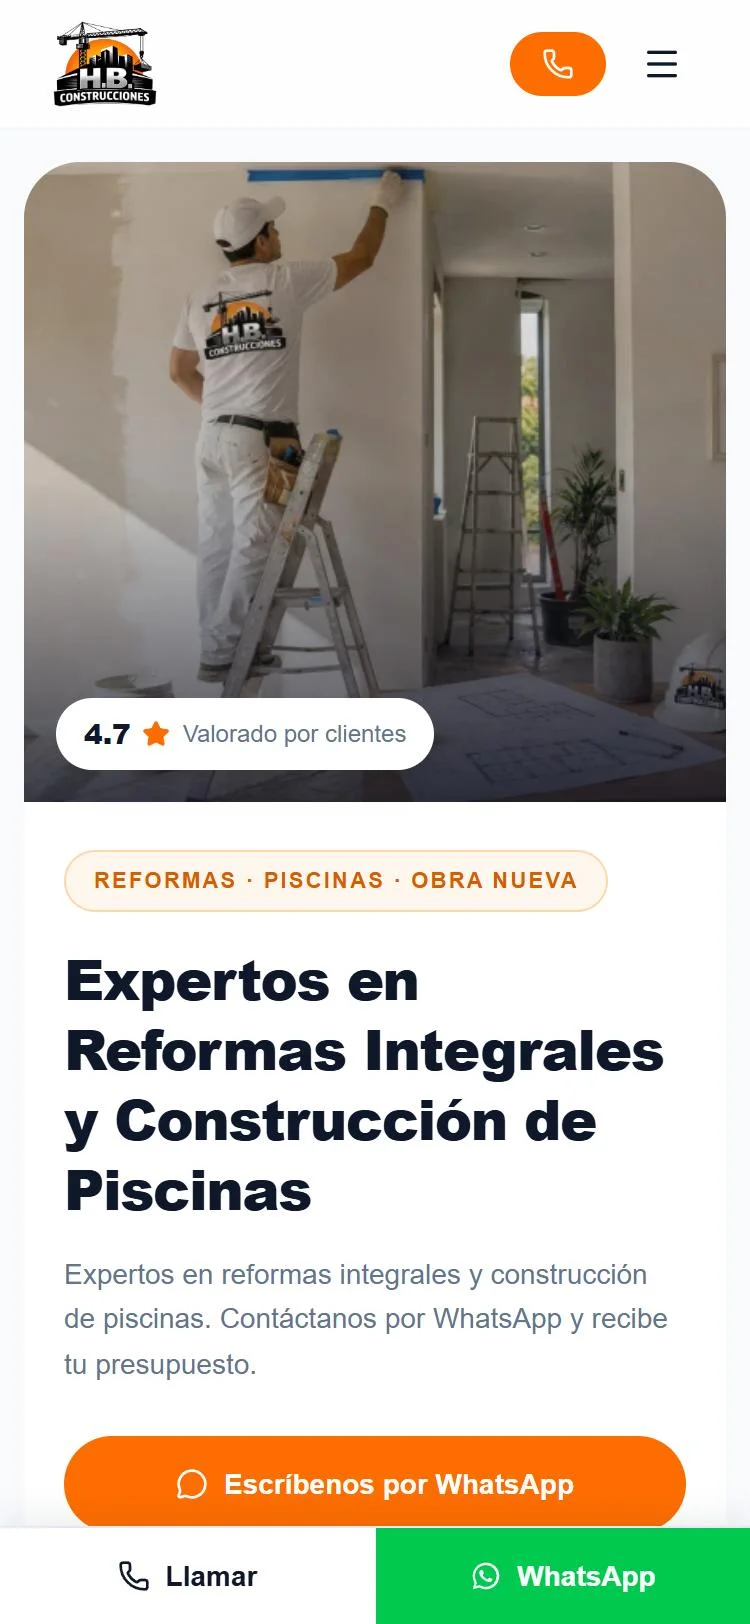
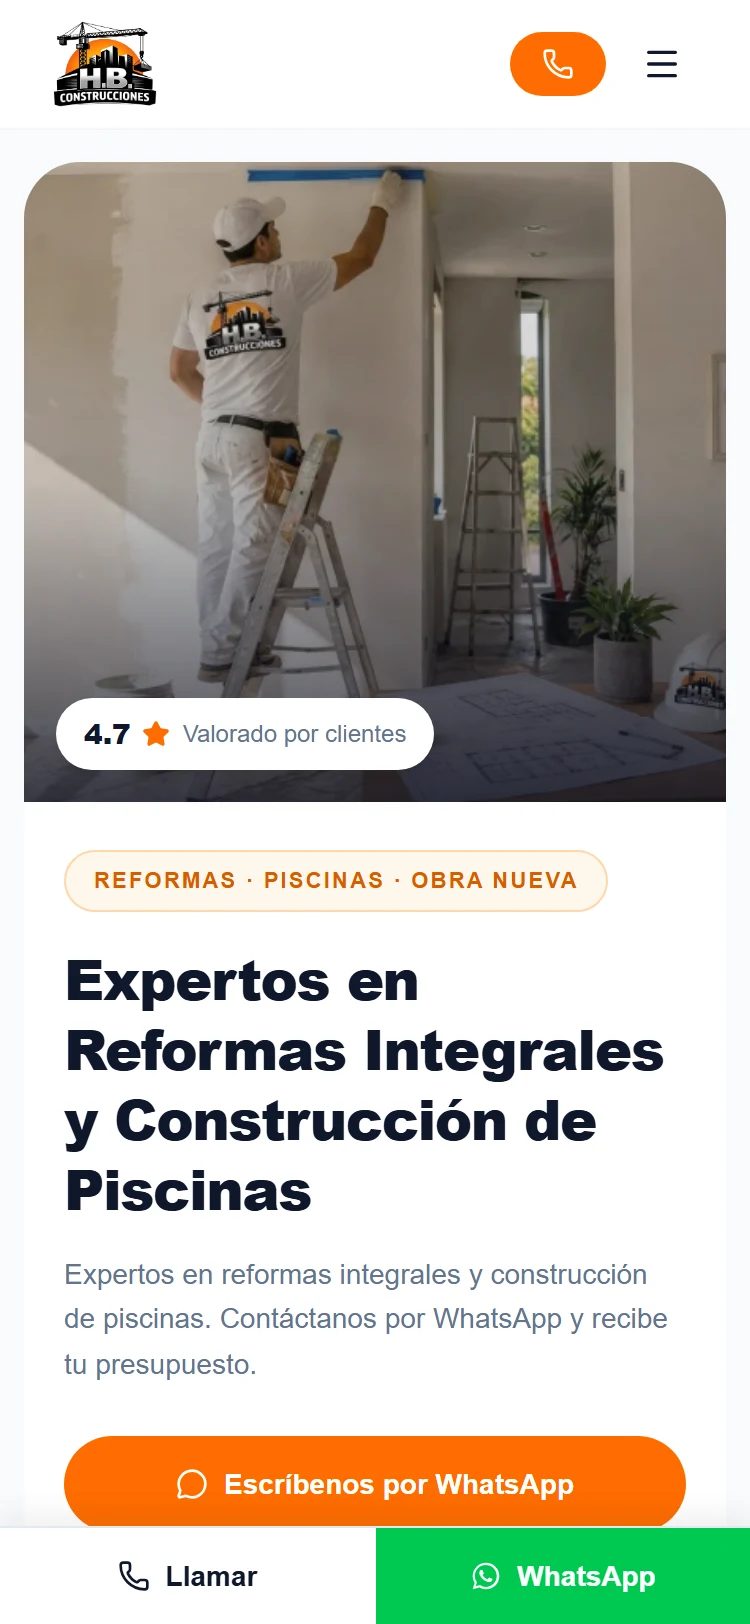
T35: capturas definitivas de HB, Zona F y Finanzas (#43)
* T35: script de capturas y capturas definitivas de HB y Finanzas

pnpm screenshots captura las webs publicadas a 2x sin barra de desplazamiento. Sustituye las
provisionales de HB (portada, móvil, trabajos) y Finanzas (demo). Zona F pendiente: su web
publicada falla (React #441, «Algo salió mal»).

* T35: capturas definitivas de Zona F (solo interfaz)

---------

diff --git a/scripts/capture-screenshots.ts b/scripts/capture-screenshots.ts
@@ -1,0 +1,145 @@
+import { chromium, type Browser, type Page } from '@playwright/test';
+import { mkdirSync } from 'node:fs';
+import { fileURLToPath } from 'node:url';
+import sharp from 'sharp';
+
+/**
+ * Capturas definitivas de los proyectos (spec §9.5, T35): `pnpm screenshots [nombre…]`.
+ * Abre las webs publicadas a 2x, sin barra de desplazamiento, y guarda cada captura en WebP en
+ * `src/content/work/<slug>/images/`. Sin argumentos hace todas. Terry revisa cada una antes de subirla.
+ *
+ * Zona F: solo la interfaz (partidos en vivo, cuotas y boleto). Nunca el hero ni las promociones
+ * con jugadores, escudos o patrocinadores. Finanzas: modo demo, con datos de ejemplo.
+ */
+const root = new URL('../src/content/work/', import.meta.url);
+
+const desktop = { width: 1440, height: 900 } as const;
+const phone = { width: 375, height: 812 } as const;
+
+type Shot = {
+  name: string;
+  slug: string;
+  url: string;
+  viewport: { width: number; height: number };
+  /** Deja la página lista para la captura (cookies, demo, desplazamiento…). */
+  prepare?: (page: Page) => Promise<void>;
+};
+
+const settle = (page: Page) => page.waitForTimeout(1500);
+
+/** Zona F: salta el hero y las promociones (jugadores, escudos) hasta «En vivo ahora». */
+async function scrollLiveMatchesIntoView(page: Page, offset: number) {
+  await page.getByRole('heading', { name: 'En vivo ahora' }).first().waitFor();
+  await page.evaluate((offset) => {
+    const heading = [...document.querySelectorAll('h3')].find((h) =>
+      /en vivo ahora/i.test(h.textContent ?? ''),
+    );
+    window.scrollBy(0, (heading?.getBoundingClientRect().top ?? 0) - offset);
+  }, offset);
+}
+
+const shots: Shot[] = [
+  {
+    name: 'hb-portada-escritorio',
+    slug: 'hb-construcciones',
+    url: 'https://hb-construcciones.vercel.app/',
+    viewport: desktop,
+  },
+  {
+    name: 'hb-movil',
+    slug: 'hb-construcciones',
+    url: 'https://hb-construcciones.vercel.app/',
+    viewport: phone,
+  },
+  {
+    name: 'hb-trabajos-escritorio',
+    slug: 'hb-construcciones',
+    url: 'https://hb-construcciones.vercel.app/',
+    viewport: desktop,
+    prepare: async (page) => {
+      const gallery = page.locator('#galeria');
+      await gallery.scrollIntoViewIfNeeded();
+      // La cabecera de la galería arriba del todo, con un margen.
+      await page.evaluate(() => {
+        const top = document.querySelector('#galeria h2')?.getBoundingClientRect().top ?? 0;
+        window.scrollBy(0, top - 112);
+      });
+    },
+  },
+  {
+    name: 'zonaf-escritorio',
+    slug: 'zona-f',
+    url: 'https://zona-f.vercel.app/',
+    viewport: desktop,
+    prepare: async (page) => {
+      await scrollLiveMatchesIntoView(page, 90);
+      // Una selección en el boleto: el primer «Local» de la tarjeta de Alianza Lima.
+      await page
+        .getByRole('button', { name: /Local\s*2\.35/ })
+        .last()
+        .click();
+      await page.getByText('Ganancia potencial').first().waitFor();
+    },
+  },
+  {
+    name: 'zonaf-movil',
+    slug: 'zona-f',
+    url: 'https://zona-f.vercel.app/',
+    viewport: phone,
+    prepare: (page) => scrollLiveMatchesIntoView(page, 130),
+  },
+  {
+    name: 'finanzas-escritorio',
+    slug: 'finanzas-personales',
+    url: 'https://finanzas-personales-roan.vercel.app/login',
+    viewport: desktop,
+    prepare: async (page) => {
+      await page.getByRole('button', { name: 'Probar la demo' }).click();
+      await page.waitForURL((url) => !url.pathname.startsWith('/login'), { timeout: 30_000 });
+      await page.getByText('Modo demo').first().waitFor();
+    },
+  },
+];
+
+async function capture(browser: Browser, shot: Shot) {
+  const context = await browser.newContext({
+    viewport: shot.viewport,
+    deviceScaleFactor: 2,
+    locale: 'es-ES',
+    reducedMotion: 'reduce',
+    isMobile: shot.viewport.width < 500,
+  });
+  const page = await context.newPage();
+  try {
+    await page.goto(shot.url, { waitUntil: 'networkidle' });
+    await page.addStyleTag({
+      content: 'html{scrollbar-width:none}::-webkit-scrollbar{display:none}',
+    });
+    await shot.prepare?.(page);
+    await settle(page);
+    const png = await page.screenshot({ type: 'png' });
+    const target = new URL(`${shot.slug}/images/${shot.name}.webp`, root);
+    mkdirSync(fileURLToPath(new URL('.', target)), { recursive: true });
+    const info = await sharp(png).webp({ quality: 88 }).toFile(fileURLToPath(target));
+    console.log(`${shot.name}: ${info.width}×${info.height}, ${Math.round(info.size / 1024)} KB`);
+  } finally {
+    await context.close();
+  }
+}
+
+const wanted = process.argv.slice(2);
+const selected = wanted.length ? shots.filter((shot) => wanted.includes(shot.name)) : shots;
+if (!selected.length) throw new Error(`Ninguna captura se llama ${wanted.join(', ')}`);
+
+const browser = await chromium.launch({ args: ['--hide-scrollbars'] });
+let failed = 0;
+for (const shot of selected) {
+  try {
+    await capture(browser, shot);
+  } catch (error) {
+    failed += 1;
+    console.error(`${shot.name}: FALLÓ — ${error instanceof Error ? error.message : error}`);
+  }
+}
+await browser.close();
+process.exit(failed ? 1 : 0);
